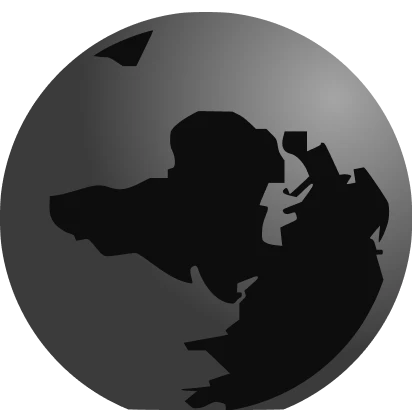
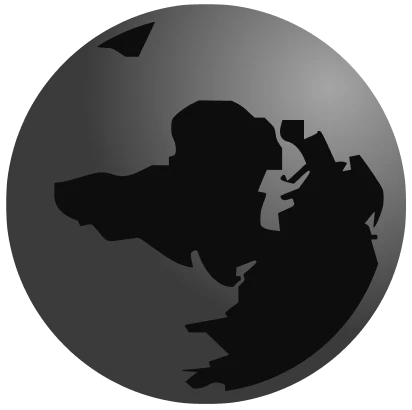
House of Walk: revert card, new static KV globe, comingSoon: true
- Restore house-of-walk-card.webp to pre-ba53c9e version
- Replace canvas globe KV with new static 3D render (same 412×410)
- Remove canvas: true from kv section
- Add comingSoon: true to project frontmatter
- Delete house-of-walk-24.webp (already removed from gallery)

diff --git a/nuxt-app/content/projects/house-of-walk.md b/nuxt-app/content/projects/house-of-walk.md
@@ -165,7 +165,7 @@ kv:
   src: /assets/brands/house-of-walk/house-of-walk-kv.webp
   width: 412
   height: 410
-  canvas: true
+comingSoon: true
 cardPreview:
   - src: /assets/brands/house-of-walk/house-of-walk-11-preview.webp
     width: 480
